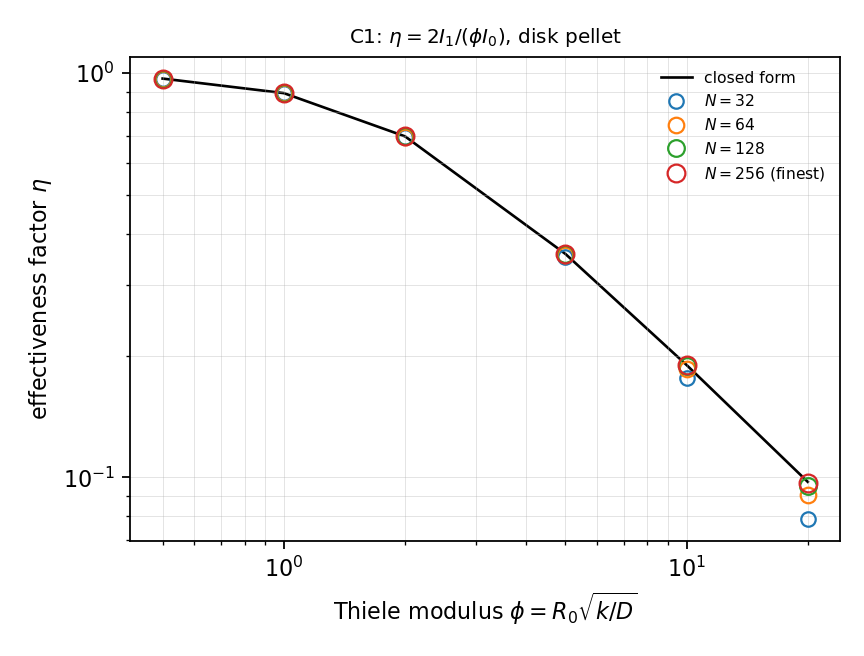
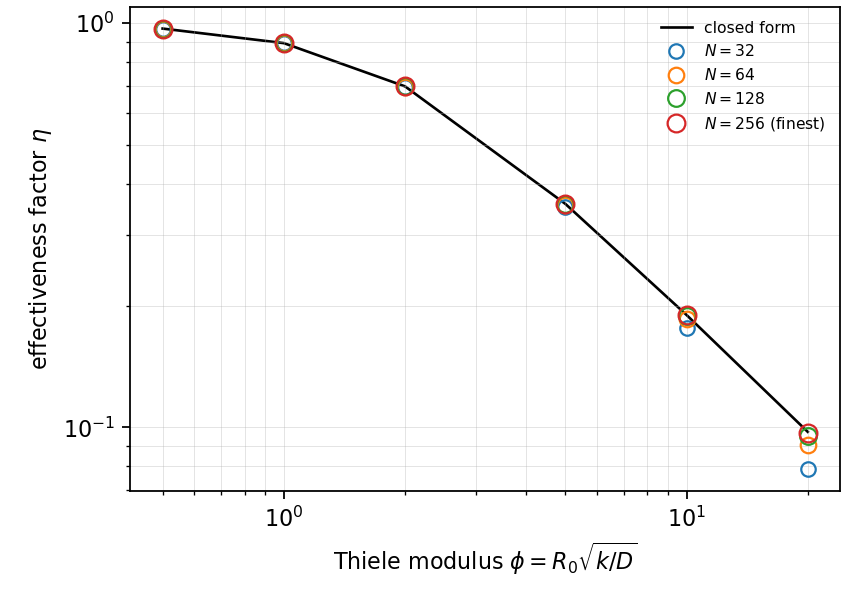
Name the authors in the results heading and crop the figures
The results heading now carries the method and its authors; the date moves to
the configuration line. Each result figure is cropped above the plot area,
removing a baked-in title that also carried the pre-rename identifiers.

Claude-Session: https://claude.ai/code/session_015QW5EQseVKbNZkf74VsKHU

diff --git a/cases/MT-001-reactive-sphere-steady.md b/cases/MT-001-reactive-sphere-steady.md
@@ -90,11 +90,9 @@ Damkohler number would give $2(1+\phi/2)$ and look like a factor-of-two error.
 
 ## Results
 
-### Two-fluid cut-cell method
+### Two-fluid cut-cell method - L. Libat, C. Selçuk, E. Chénier, V. Le Chenadec
 
-L. Libat, C. Selçuk, E. Chénier, V. Le Chenadec. Measured 2026-09-09.
-
-Uniform grid, N = 128, 8 MPI ranks; also run on an octree and an adaptive octree. Da = 0, 1, 4, 10, 100, 1000.
+Measured 2026-09-09. Uniform grid, N = 128, 8 MPI ranks; also run on an octree and an adaptive octree. Da = 0, 1, 4, 10, 100, 1000.
 
 | Da | 0 | 1 | 4 | 10 | 100 | 1000 |
 |---|---|---|---|---|---|---|

diff --git a/cases/MT-009-reactive-absorption-droplet.md b/cases/MT-009-reactive-absorption-droplet.md
@@ -90,11 +90,9 @@ $$
 
 ## Results
 
-### Two-fluid cut-cell method
+### Two-fluid cut-cell method - L. Libat, C. Selçuk, E. Chénier, V. Le Chenadec
 
-L. Libat, C. Selçuk, E. Chénier, V. Le Chenadec. Measured 2026-09-09.
-
-Uniform grid, N up to 256, 16 MPI ranks. Da and lambda swept independently, lambda up to 100.
+Measured 2026-09-09. Uniform grid, N up to 256, 16 MPI ranks. Da and lambda swept independently, lambda up to 100.
 
 6.4e-6 to 1.6e-4, and the interfacial traces reproduce the pair
 `(lambda, 1)` to six digits over four decades of `lambda`.

diff --git a/cases/MT-004-unsteady-reactive-sphere.md b/cases/MT-004-unsteady-reactive-sphere.md
@@ -101,11 +101,9 @@ $\mathrm{Fo}\to\infty$ and MT-003 the limit $\mathrm{Da}\to 0$.
 
 ## Results
 
-### Two-fluid cut-cell method
+### Two-fluid cut-cell method - L. Libat, C. Selçuk, E. Chénier, V. Le Chenadec
 
-L. Libat, C. Selçuk, E. Chénier, V. Le Chenadec. Measured 2026-09-09.
-
-Uniform grid, N = 64, Crank-Nicolson in time, 8 MPI ranks. Da = 1 and 10, Fo = 0.05, 0.15, 0.50.
+Measured 2026-09-09. Uniform grid, N = 64, Crank-Nicolson in time, 8 MPI ranks. Da = 1 and 10, Fo = 0.05, 0.15, 0.50.
 
 | Fo | 0.05 | 0.15 | 0.50 |
 |---|---|---|---|

diff --git a/cases/MT-002-reactive-disk-steady.md b/cases/MT-002-reactive-disk-steady.md
@@ -89,11 +89,9 @@ $$
 
 ## Results
 
-### Two-fluid cut-cell method
+### Two-fluid cut-cell method - L. Libat, C. Selçuk, E. Chénier, V. Le Chenadec
 
-L. Libat, C. Selçuk, E. Chénier, V. Le Chenadec. Measured 2026-09-09.
-
-Uniform grid, N = 128, 16 MPI ranks, with a confirmation rung at N = 256. Da = 0.25, 1, 4, 10, 100, 1000.
+Measured 2026-09-09. Uniform grid, N = 128, 16 MPI ranks, with a confirmation rung at N = 256. Da = 0.25, 1, 4, 10, 100, 1000.
 
 | Da | 0.25 | 1 | 4 | 10 | 100 | 1000 |
 |---|---|---|---|---|---|---|

diff --git a/cases/MT-006-pellet-cylinder.md b/cases/MT-006-pellet-cylinder.md
@@ -83,11 +83,9 @@ The asymptote is $\eta \to 2/\phi$.
 
 ## Results
 
-### Two-fluid cut-cell method
+### Two-fluid cut-cell method - L. Libat, C. Selçuk, E. Chénier, V. Le Chenadec
 
-L. Libat, C. Selçuk, E. Chénier, V. Le Chenadec. Measured 2026-09-09.
-
-Uniform grid, N = 128, two dimensions, 16 MPI ranks. phi = 0.5, 1, 2, 5, 10, 20.
+Measured 2026-09-09. Uniform grid, N = 128, two dimensions, 16 MPI ranks. phi = 0.5, 1, 2, 5, 10, 20.
 
 | phi | 0.5 | 1 | 2 | 5 | 10 | 20 |
 |---|---|---|---|---|---|---|

diff --git a/cases/VC-005-rotation-invariance-reactive-disk.md b/cases/VC-005-rotation-invariance-reactive-disk.md
@@ -86,11 +86,9 @@ fractions, must be at round-off.
 
 ## Results
 
-### Two-fluid cut-cell method
+### Two-fluid cut-cell method - L. Libat, C. Selçuk, E. Chénier, V. Le Chenadec
 
-L. Libat, C. Selçuk, E. Chénier, V. Le Chenadec. Measured 2026-09-09.
-
-Uniform grid, N = 32/64/128, 16 MPI ranks. Da = 4, Pe_omega = 0, 1, 10, 100, 1000.
+Measured 2026-09-09. Uniform grid, N = 32/64/128, 16 MPI ranks. Da = 4, Pe_omega = 0, 1, 10, 100, 1000.
 
 | Pe_omega | 0 | 1 | 10 | 100 | 1000 |
 |---|---|---|---|---|---|

diff --git a/cases/MT-007-pellet-sphere.md b/cases/MT-007-pellet-sphere.md
@@ -86,11 +86,9 @@ asymptote is $\eta \to 3/\phi$.
 
 ## Results
 
-### Two-fluid cut-cell method
+### Two-fluid cut-cell method - L. Libat, C. Selçuk, E. Chénier, V. Le Chenadec
 
-L. Libat, C. Selçuk, E. Chénier, V. Le Chenadec. Measured 2026-09-09.
-
-Uniform grid, N = 64, three dimensions, 8 MPI ranks. phi = 0.5, 1, 2, 5, 10, 20.
+Measured 2026-09-09. Uniform grid, N = 64, three dimensions, 8 MPI ranks. phi = 0.5, 1, 2, 5, 10, 20.
 
 | phi | 0.5 | 1 | 2 | 5 | 10 | 20 |
 |---|---|---|---|---|---|---|

diff --git a/cases/MT-005-surface-kinetics-sphere.md b/cases/MT-005-surface-kinetics-sphere.md
@@ -100,11 +100,9 @@ gives the kinetics-controlled $\mathrm{Sh}=2\,\mathrm{Da}_s$.
 
 ## Results
 
-### Two-fluid cut-cell method
+### Two-fluid cut-cell method - L. Libat, C. Selçuk, E. Chénier, V. Le Chenadec
 
-L. Libat, C. Selçuk, E. Chénier, V. Le Chenadec. Measured 2026-09-09.
-
-Uniform grid, N = 64, 8 MPI ranks. Da_s = 0.1, 1, 10, 100, 1000.
+Measured 2026-09-09. Uniform grid, N = 64, 8 MPI ranks. Da_s = 0.1, 1, 10, 100, 1000.
 
 | Da_s | 0.1 | 1 | 10 | 100 | 1000 |
 |---|---|---|---|---|---|

diff --git a/cases/VC-006-resistance-additivity.md b/cases/VC-006-resistance-additivity.md
@@ -87,11 +87,9 @@ infinite-domain value $\mathrm{Sh}_e = 2$ in a box with $R_0/R_\mathrm{out}
 
 ## Results
 
-### Two-fluid cut-cell method
+### Two-fluid cut-cell method - L. Libat, C. Selçuk, E. Chénier, V. Le Chenadec
 
-L. Libat, C. Selçuk, E. Chénier, V. Le Chenadec. Measured 2026-09-09.
-
-Uniform grid, N = 16/32/64, 8 MPI ranks. k = 1, D* = 0.1, 1, 10.
+Measured 2026-09-09. Uniform grid, N = 16/32/64, 8 MPI ranks. k = 1, D* = 0.1, 1, 10.
 
 Residual of `1/Sh - (1/Sh_i + k D* / Sh_e)`.
 

diff --git a/cases/MT-010-plug-flow-reactive-graetz.md b/cases/MT-010-plug-flow-reactive-graetz.md
@@ -103,11 +103,9 @@ reaction is leaking into the convective flux.
 
 ## Results
 
-### Two-fluid cut-cell method
+### Two-fluid cut-cell method - L. Libat, C. Selçuk, E. Chénier, V. Le Chenadec
 
-L. Libat, C. Selçuk, E. Chénier, V. Le Chenadec. Measured 2026-09-09.
-
-Uniform grid, N = 32/64/128, 16 MPI ranks. Pe = 5, Da = 0, 1, 10, 100.
+Measured 2026-09-09. Uniform grid, N = 32/64/128, 16 MPI ranks. Pe = 5, Da = 0, 1, 10, 100.
 
 | Da | 0 | 1 | 10 | 100 |
 |---|---|---|---|---|

diff --git a/cases/HT-002-newman-stagnant-drop.md b/cases/HT-002-newman-stagnant-drop.md
@@ -88,11 +88,9 @@ so the two bracket the internal resistance on one axis.
 
 ## Results
 
-### Two-fluid cut-cell method
+### Two-fluid cut-cell method - L. Libat, C. Selçuk, E. Chénier, V. Le Chenadec
 
-L. Libat, C. Selçuk, E. Chénier, V. Le Chenadec. Measured 2026-09-09.
-
-Uniform grid, N = 32/64/128, 8 MPI ranks. Fo = 0.030, 0.101, 0.300.
+Measured 2026-09-09. Uniform grid, N = 32/64/128, 8 MPI ranks. Fo = 0.030, 0.101, 0.300.
 
 so every order is a real measurement.
 

diff --git a/cases/MT-003-unsteady-sphere-diffusion.md b/cases/MT-003-unsteady-sphere-diffusion.md
@@ -85,11 +85,9 @@ $$
 
 ## Results
 
-### Two-fluid cut-cell method
+### Two-fluid cut-cell method - L. Libat, C. Selçuk, E. Chénier, V. Le Chenadec
 
-L. Libat, C. Selçuk, E. Chénier, V. Le Chenadec. Measured 2026-09-09.
-
-Uniform grid, N = 64, Crank-Nicolson in time, 8 MPI ranks. Da = 0, Fo = 0.05, 0.15, 0.50.
+Measured 2026-09-09. Uniform grid, N = 64, Crank-Nicolson in time, 8 MPI ranks. Da = 0, Fo = 0.05, 0.15, 0.50.
 
 | Fo | 0.05 | 0.15 | 0.50 |
 |---|---|---|---|
